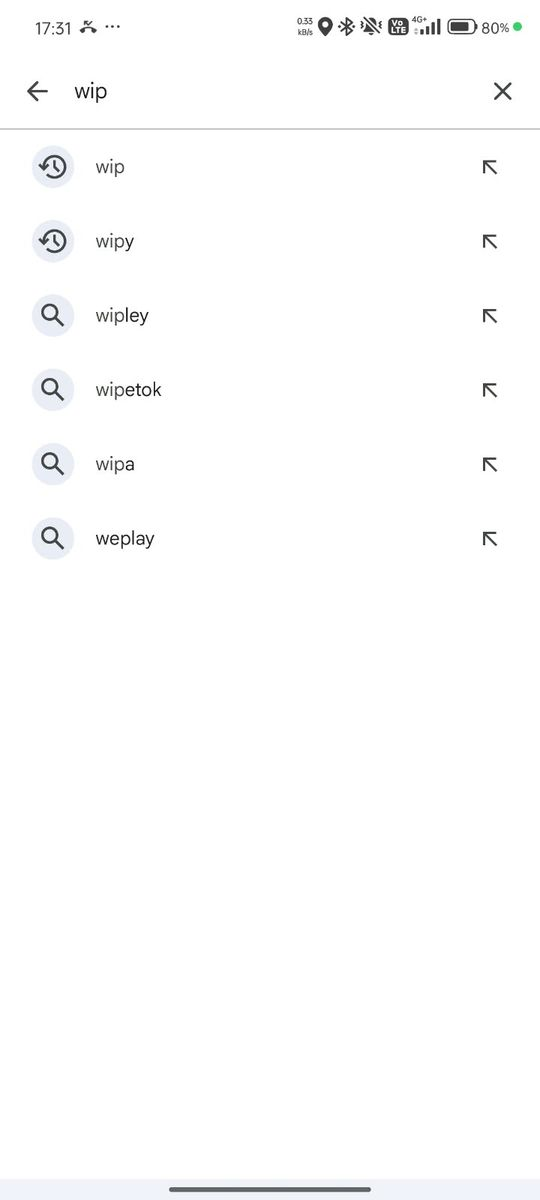
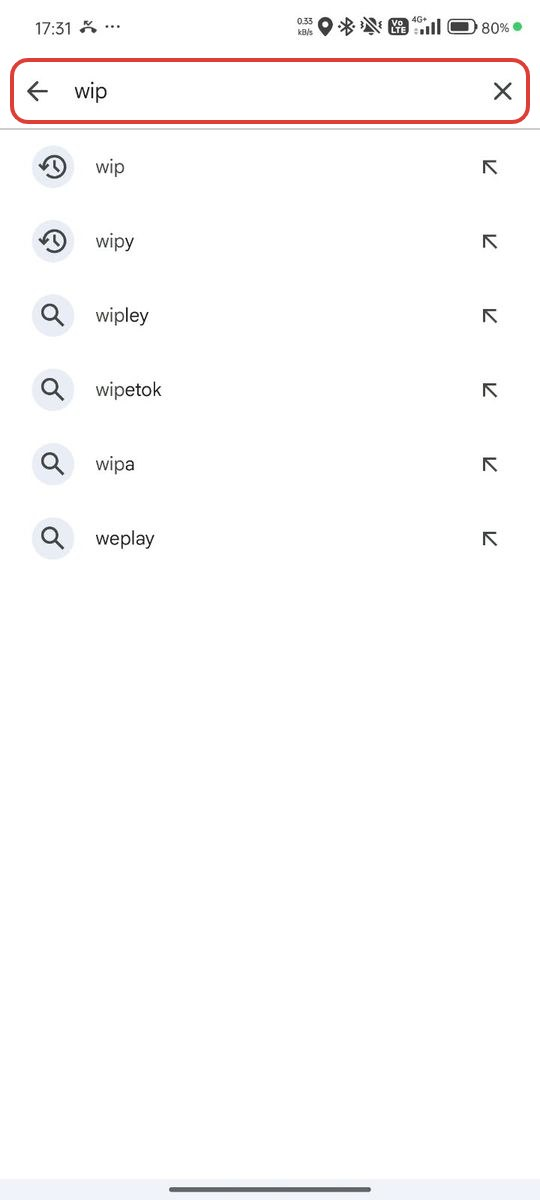
Academy: guía de operadores en 8 pasos y guía de colaboradores con datos genéricos
Operadores:
- Los pasos 1 y 2 tenían la misma pantalla: ahora son uno solo ("Entra a la
  plataforma y crea tu cuenta"), con la captura de Crear Cuenta señalado.
  Sale 1-entrar.jpg. El paso final ocupa una celda para que no quede una
  tarjeta sola en la última fila.
- Imagen descargable regenerada (?v=2).

Colaboradores:
- Capturas con datos genéricos: sin la reseña con nombre y foto (paso 2),
  TU NOMBRE (paso 7) y Tu empresa (paso 8).
- Anillos rojos en lo que hay que tocar en los pasos 1, 2, 4, 5 y 8.
- Capturas e imagen descargable con ?v=2 porque /img se cachea un año.

Changed region(s): [[0.0296, 0.0308, 1.0, 0.1233], [0.0, 0.0617, 0.0296, 0.0925]]

diff --git a/academy/guia-operador/index.html b/academy/guia-operador/index.html
@@ -244,7 +244,9 @@ h1{font-size:clamp(28px,4.6vw,48px);font-weight:800;letter-spacing:-0.03em;line-
 .screen::before{content:"";position:absolute;top:7px;left:10px;width:7px;height:7px;border-radius:50%;background:rgba(255,255,255,.35);box-shadow:11px 0 0 rgba(255,255,255,.35),22px 0 0 rgba(255,255,255,.35)}
 .screen img,.screen__ph{width:100%;height:auto;aspect-ratio:16/10;border-radius:6px;background:#fff;object-fit:cover;object-position:top left}
 .screen__ph{display:flex;flex-direction:column;align-items:center;justify-content:center;gap:6px;background:var(--surface-low);color:var(--navy-soft);font-size:13px;font-weight:600}
-/* Paso final: mismo tratamiento que en la guia del colaborador, con lista y captura */
+/* Paso final: mismo tratamiento que en la guia del colaborador, con lista y captura. Ocupa una celda
+   (no toda la fila) para que los 7 pasos + el final queden en filas de 2 sin una tarjeta sola. */
+.steps--web .step--done{grid-column:auto}
 .step--done .step__list{list-style:none;display:grid;gap:8px;max-width:600px;margin:12px auto 22px;text-align:left}
 .step--done .step__list li{position:relative;padding-left:20px;font-size:15.5px;color:rgba(255,255,255,.82)}
 .step--done .step__list li::before{content:"";position:absolute;left:2px;top:.62em;width:7px;height:7px;border-radius:50%;background:var(--lime)}
@@ -275,7 +277,7 @@ h1{font-size:clamp(28px,4.6vw,48px);font-weight:800;letter-spacing:-0.03em;line-
         <h1>Crea tu cuenta y conéctate con tu empresa</h1>
         <p>Desde el computador vas a crear tu cuenta en la plataforma web de WIP y conectarte con la empresa que te invitó, para gestionar sus servicios.</p>
         <div class="guide__actions">
-          <a class="btn-guide" href="/img/academy/guia-operador-wip.jpg?v=1" download="guia-wip-operadores.jpg" data-ev="academy_guia_descarga"><svg viewBox="0 0 24 24" width="18" height="18" aria-hidden="true"><path fill="currentColor" d="M5 20h14v-2H5Zm7-3 6-6-1.4-1.4-3.6 3.6V4h-2v9.2L7.4 9.6 6 11Z"/></svg>Descargar guía en imagen</a>
+          <a class="btn-guide" href="/img/academy/guia-operador-wip.jpg?v=2" download="guia-wip-operadores.jpg" data-ev="academy_guia_descarga"><svg viewBox="0 0 24 24" width="18" height="18" aria-hidden="true"><path fill="currentColor" d="M5 20h14v-2H5Zm7-3 6-6-1.4-1.4-3.6 3.6V4h-2v9.2L7.4 9.6 6 11Z"/></svg>Descargar guía en imagen</a>
           <button class="btn-guide btn-guide--ghost" type="button" data-share>Compartir enlace</button>
         </div>
       </div>
@@ -283,66 +285,58 @@ h1{font-size:clamp(28px,4.6vw,48px);font-weight:800;letter-spacing:-0.03em;line-
           <li class="step">
             <div class="step__head">
               <span class="step__n">1</span>
-              <h3>Entra a la plataforma</h3>
+              <h3>Entra a la plataforma y crea tu cuenta</h3>
             </div>
-            <p>Abre <a href="https://platform.wiptool.com/login" target="_blank" rel="noopener">https://platform.wiptool.com/login</a> en el navegador de tu computador.</p>
-            <div class="screen"><img src="/img/academy/plataforma/1-entrar.jpg" width="1600" height="1000" alt="Paso 1: Entra a la plataforma" loading="lazy" decoding="async"></div>
+            <p>Abre <a href="https://platform.wiptool.com/login" target="_blank" rel="noopener">https://platform.wiptool.com/login</a> en el navegador de tu computador y toca <b>Crear Cuenta</b>, en el panel de la izquierda, o <b>Regístrate</b>, debajo de <b>Iniciar sesión</b>. Si ya tienes cuenta en WIP, inicia sesión y pasa al paso 5.</p>
+            <div class="screen"><img src="/img/academy/plataforma/2-crear-cuenta.jpg" width="1600" height="1000" alt="Paso 1: Entra a la plataforma y crea tu cuenta" loading="lazy" decoding="async"></div>
           </li>
           <li class="step">
             <div class="step__head">
               <span class="step__n">2</span>
-              <h3>Crea tu cuenta</h3>
+              <h3>Escribe tus datos</h3>
             </div>
-            <p>Toca <b>Crear Cuenta</b>, en el panel de la izquierda, o <b>Regístrate</b>, debajo de <b>Iniciar sesión</b>. Si ya tienes cuenta en WIP, inicia sesión y pasa al paso 6.</p>
-            <div class="screen"><img src="/img/academy/plataforma/2-crear-cuenta.jpg" width="1600" height="1000" alt="Paso 2: Crea tu cuenta" loading="lazy" decoding="async"></div>
+            <p>Escribe tu correo, tu nombre y tus apellidos, y toca <b>Siguiente</b>.</p>
+            <div class="screen"><img src="/img/academy/plataforma/3-datos.jpg" width="1600" height="1000" alt="Paso 2: Escribe tus datos" loading="lazy" decoding="async"></div>
           </li>
           <li class="step">
             <div class="step__head">
               <span class="step__n">3</span>
-              <h3>Escribe tus datos</h3>
+              <h3>Verifica tu correo</h3>
             </div>
-            <p>Escribe tu correo, tu nombre y tus apellidos, y toca <b>Siguiente</b>.</p>
-            <div class="screen"><img src="/img/academy/plataforma/3-datos.jpg" width="1600" height="1000" alt="Paso 3: Escribe tus datos" loading="lazy" decoding="async"></div>
+            <p>Te llega un código a tu correo. Escríbelo y toca <b>Siguiente</b>. Si no te llega, revisa la carpeta de spam o toca <b>Reenviar correo electrónico de verificación</b>.</p>
+            <div class="screen"><img src="/img/academy/plataforma/4-verificar-correo.jpg" width="1600" height="1000" alt="Paso 3: Verifica tu correo" loading="lazy" decoding="async"></div>
           </li>
           <li class="step">
             <div class="step__head">
               <span class="step__n">4</span>
-              <h3>Verifica tu correo</h3>
+              <h3>Crea tu contraseña</h3>
             </div>
-            <p>Te llega un código a tu correo. Escríbelo y toca <b>Siguiente</b>. Si no te llega, revisa la carpeta de spam o toca <b>Reenviar correo electrónico de verificación</b>.</p>
-            <div class="screen"><img src="/img/academy/plataforma/4-verificar-correo.jpg" width="1600" height="1000" alt="Paso 4: Verifica tu correo" loading="lazy" decoding="async"></div>
+            <p>Escribe tu contraseña, confírmala y toca <b>Finalizar</b>. La plataforma te lleva de nuevo al inicio de sesión.</p>
+            <div class="screen"><img src="/img/academy/plataforma/5-contrasena.jpg" width="1600" height="1000" alt="Paso 4: Crea tu contraseña" loading="lazy" decoding="async"></div>
           </li>
           <li class="step">
             <div class="step__head">
               <span class="step__n">5</span>
-              <h3>Crea tu contraseña</h3>
+              <h3>Inicia sesión</h3>
             </div>
-            <p>Escribe tu contraseña, confírmala y toca <b>Finalizar</b>. La plataforma te lleva de nuevo al inicio de sesión.</p>
-            <div class="screen"><img src="/img/academy/plataforma/5-contrasena.jpg" width="1600" height="1000" alt="Paso 5: Crea tu contraseña" loading="lazy" decoding="async"></div>
+            <p>Entra con tu correo y tu contraseña. Como todavía no estás en ninguna empresa, la plataforma te abre <b>Mi red</b>.</p>
+            <div class="screen"><img src="/img/academy/plataforma/6-mi-red.jpg" width="1600" height="1000" alt="Paso 5: Inicia sesión" loading="lazy" decoding="async"></div>
           </li>
           <li class="step">
             <div class="step__head">
               <span class="step__n">6</span>
-              <h3>Inicia sesión</h3>
+              <h3>Busca tu empresa</h3>
             </div>
-            <p>Entra con tu correo y tu contraseña. Como todavía no estás en ninguna empresa, la plataforma te abre <b>Mi red</b>.</p>
-            <div class="screen"><img src="/img/academy/plataforma/6-mi-red.jpg" width="1600" height="1000" alt="Paso 6: Inicia sesión" loading="lazy" decoding="async"></div>
+            <p>En la barra <b>Buscar una empresa</b>, escribe el nombre de la empresa que te invitó. Es el nombre que aparece en el mensaje de invitación.</p>
+            <div class="screen"><img src="/img/academy/plataforma/7-buscar-empresa.jpg" width="1600" height="1000" alt="Paso 6: Busca tu empresa" loading="lazy" decoding="async"></div>
           </li>
           <li class="step">
             <div class="step__head">
               <span class="step__n">7</span>
-              <h3>Busca tu empresa</h3>
-            </div>
-            <p>En la barra <b>Buscar una empresa</b>, escribe el nombre de la empresa que te invitó. Es el nombre que aparece en el mensaje de invitación.</p>
-            <div class="screen"><img src="/img/academy/plataforma/7-buscar-empresa.jpg" width="1600" height="1000" alt="Paso 7: Busca tu empresa" loading="lazy" decoding="async"></div>
-          </li>
-          <li class="step">
-            <div class="step__head">
-              <span class="step__n">8</span>
               <h3>Envía la solicitud</h3>
             </div>
             <p>Toca <b>Conectar</b> en la tarjeta de la empresa y confirma con <b>Enviar solicitud</b>. Puedes ver tu solicitud en <b>Solicitudes → Enviadas</b>.</p>
-            <div class="screen"><img src="/img/academy/plataforma/8-enviar-solicitud.jpg" width="1600" height="1000" alt="Paso 8: Envía la solicitud" loading="lazy" decoding="async"></div>
+            <div class="screen"><img src="/img/academy/plataforma/8-enviar-solicitud.jpg" width="1600" height="1000" alt="Paso 7: Envía la solicitud" loading="lazy" decoding="async"></div>
           </li>
           <li class="step step--done">
             <div class="step__head">
@@ -350,11 +344,11 @@ h1{font-size:clamp(28px,4.6vw,48px);font-weight:800;letter-spacing:-0.03em;line-
               <h3>Espera la aceptación y empieza a trabajar</h3>
             </div>
             <ul class="step__list"><li>Cuando la empresa acepte tu solicitud, elígela en el selector <b>Empresa</b> de la barra superior y empieza a gestionar sus servicios.</li><li>No uses <b>Crear empresa</b>: eso crea una empresa nueva, distinta de la que te invitó.</li><li>Si no ves las opciones de operador, pídele a tu empresa que revise tu rol en <b>Configuración → Usuarios</b>.</li></ul>
-            <div class="screen"><img src="/img/academy/plataforma/9-elegir-empresa.jpg" width="1600" height="1000" alt="Paso 9: Espera la aceptación y empieza a trabajar" loading="lazy" decoding="async"></div>
+            <div class="screen"><img src="/img/academy/plataforma/9-elegir-empresa.jpg" width="1600" height="1000" alt="Paso 8: Espera la aceptación y empieza a trabajar" loading="lazy" decoding="async"></div>
           </li>
       </ol>
       <div class="guide__foot">
-        <a class="btn-guide" href="/img/academy/guia-operador-wip.jpg?v=1" download="guia-wip-operadores.jpg" data-ev="academy_guia_descarga"><svg viewBox="0 0 24 24" width="18" height="18" aria-hidden="true"><path fill="currentColor" d="M5 20h14v-2H5Zm7-3 6-6-1.4-1.4-3.6 3.6V4h-2v9.2L7.4 9.6 6 11Z"/></svg>Descargar guía en imagen</a>
+        <a class="btn-guide" href="/img/academy/guia-operador-wip.jpg?v=2" download="guia-wip-operadores.jpg" data-ev="academy_guia_descarga"><svg viewBox="0 0 24 24" width="18" height="18" aria-hidden="true"><path fill="currentColor" d="M5 20h14v-2H5Zm7-3 6-6-1.4-1.4-3.6 3.6V4h-2v9.2L7.4 9.6 6 11Z"/></svg>Descargar guía en imagen</a>
         <a class="guide__back" href="/academy#usuarios">Ver los cursos en video para operadores →</a>
       </div>
     </div>

diff --git a/academy/guia-colaborador/index.html b/academy/guia-colaborador/index.html
@@ -254,7 +254,7 @@ h1{font-size:clamp(28px,4.6vw,48px);font-weight:800;letter-spacing:-0.03em;line-
         <h1>Descarga la app y conéctate con tu empresa</h1>
         <p>Sigue estos 9 pasos desde tu celular para empezar a recibir y gestionar servicios en WIP.</p>
         <div class="guide__actions">
-          <a class="btn-guide" href="/img/academy/guia-colaborador-wip.jpg" download="guia-wip-colaboradores.jpg" data-ev="academy_guia_descarga"><svg viewBox="0 0 24 24" width="18" height="18" aria-hidden="true"><path fill="currentColor" d="M5 20h14v-2H5Zm7-3 6-6-1.4-1.4-3.6 3.6V4h-2v9.2L7.4 9.6 6 11Z"/></svg>Descargar guía en imagen</a>
+          <a class="btn-guide" href="/img/academy/guia-colaborador-wip.jpg?v=2" download="guia-wip-colaboradores.jpg" data-ev="academy_guia_descarga"><svg viewBox="0 0 24 24" width="18" height="18" aria-hidden="true"><path fill="currentColor" d="M5 20h14v-2H5Zm7-3 6-6-1.4-1.4-3.6 3.6V4h-2v9.2L7.4 9.6 6 11Z"/></svg>Descargar guía en imagen</a>
           <button class="btn-guide btn-guide--ghost" type="button" data-share>Compartir enlace</button>
         </div>
       </div>
@@ -265,7 +265,7 @@ h1{font-size:clamp(28px,4.6vw,48px);font-weight:800;letter-spacing:-0.03em;line-
               <h3>Busca “Wip” en la Play Store</h3>
             </div>
             <p>Abre la Play Store en tu celular y escribe “wip” en el buscador.</p>
-            <div class="phone"><img src="/img/academy/app/1-buscar-wip.jpg" width="540" height="1200" alt="Paso 1: Busca “Wip” en la Play Store" loading="lazy" decoding="async"></div>
+            <div class="phone"><img src="/img/academy/app/1-buscar-wip.jpg?v=2" width="540" height="1200" alt="Paso 1: Busca “Wip” en la Play Store" loading="lazy" decoding="async"></div>
           </li>
           <li class="step">
             <div class="step__head">
@@ -273,7 +273,7 @@ h1{font-size:clamp(28px,4.6vw,48px);font-weight:800;letter-spacing:-0.03em;line-
               <h3>Instala “Wip colaboradores”</h3>
             </div>
             <p>En los resultados aparece Wip colaboradores. Tócala y presiona Instalar.</p>
-            <div class="phone"><img src="/img/academy/app/2-wip-colaboradores.jpg" width="540" height="1200" alt="Paso 2: Instala “Wip colaboradores”" loading="lazy" decoding="async"></div>
+            <div class="phone"><img src="/img/academy/app/2-wip-colaboradores.jpg?v=2" width="540" height="1200" alt="Paso 2: Instala “Wip colaboradores”" loading="lazy" decoding="async"></div>
           </li>
           <li class="step">
             <div class="step__head">
@@ -281,7 +281,7 @@ h1{font-size:clamp(28px,4.6vw,48px);font-weight:800;letter-spacing:-0.03em;line-
               <h3>Abre la app y toca “Regístrate”</h3>
             </div>
             <p>Cuando termine la descarga, abre la app y, debajo de Iniciar sesión, toca Regístrate.</p>
-            <div class="phone"><img src="/img/academy/app/3-registrate.jpg" width="540" height="1200" alt="Paso 3: Abre la app y toca “Regístrate”" loading="lazy" decoding="async"></div>
+            <div class="phone"><img src="/img/academy/app/3-registrate.jpg?v=2" width="540" height="1200" alt="Paso 3: Abre la app y toca “Regístrate”" loading="lazy" decoding="async"></div>
           </li>
           <li class="step">
             <div class="step__head">
@@ -289,7 +289,7 @@ h1{font-size:clamp(28px,4.6vw,48px);font-weight:800;letter-spacing:-0.03em;line-
               <h3>Completa tus datos</h3>
             </div>
             <p>Escribe tu correo, tu nombre y tu apellido, y sigue los pasos hasta terminar el registro.</p>
-            <div class="phone"><img src="/img/academy/app/4-registro.jpg" width="540" height="1200" alt="Paso 4: Completa tus datos" loading="lazy" decoding="async"></div>
+            <div class="phone"><img src="/img/academy/app/4-registro.jpg?v=2" width="540" height="1200" alt="Paso 4: Completa tus datos" loading="lazy" decoding="async"></div>
           </li>
           <li class="step">
             <div class="step__head">
@@ -297,7 +297,7 @@ h1{font-size:clamp(28px,4.6vw,48px);font-weight:800;letter-spacing:-0.03em;line-
               <h3>Permite notificaciones y ubicación</h3>
             </div>
             <p>Al ingresar a la app, acepta los permisos de notificaciones y de ubicación. La app te muestra cómo dejar la ubicación activa todo el tiempo y precisa: sigue esos pasos.</p>
-            <div class="phone"><img src="/img/academy/app/5-permisos.jpg" width="540" height="1200" alt="Paso 5: Permite notificaciones y ubicación" loading="lazy" decoding="async"></div>
+            <div class="phone"><img src="/img/academy/app/5-permisos.jpg?v=2" width="540" height="1200" alt="Paso 5: Permite notificaciones y ubicación" loading="lazy" decoding="async"></div>
           </li>
           <li class="step">
             <div class="step__head">
@@ -305,7 +305,7 @@ h1{font-size:clamp(28px,4.6vw,48px);font-weight:800;letter-spacing:-0.03em;line-
               <h3>En ubicación elige “Permitir todo el tiempo”</h3>
             </div>
             <p>En Ajustes › Apps › Wip › Permisos › Ubicación, marca Permitir todo el tiempo y deja activa Ubicación precisa, para que tu ubicación se actualice aunque la app esté en segundo plano.</p>
-            <div class="phone"><img src="/img/academy/app/6-permitir-todo-el-tiempo.jpg" width="540" height="1200" alt="Paso 6: En ubicación elige “Permitir todo el tiempo”" loading="lazy" decoding="async"></div>
+            <div class="phone"><img src="/img/academy/app/6-permitir-todo-el-tiempo.jpg?v=2" width="540" height="1200" alt="Paso 6: En ubicación elige “Permitir todo el tiempo”" loading="lazy" decoding="async"></div>
           </li>
           <li class="step">
             <div class="step__head">
@@ -313,7 +313,7 @@ h1{font-size:clamp(28px,4.6vw,48px);font-weight:800;letter-spacing:-0.03em;line-
               <h3>Entra a “Mi red”</h3>
             </div>
             <p>En la pantalla de inicio toca el círculo Mi red.</p>
-            <div class="phone"><img src="/img/academy/app/7-mi-red.jpg" width="540" height="1200" alt="Paso 7: Entra a “Mi red”" loading="lazy" decoding="async"></div>
+            <div class="phone"><img src="/img/academy/app/7-mi-red.jpg?v=2" width="540" height="1200" alt="Paso 7: Entra a “Mi red”" loading="lazy" decoding="async"></div>
           </li>
           <li class="step">
             <div class="step__head">
@@ -321,7 +321,7 @@ h1{font-size:clamp(28px,4.6vw,48px);font-weight:800;letter-spacing:-0.03em;line-
               <h3>Busca tu empresa y toca “Conectar”</h3>
             </div>
             <p>Escribe el nombre de la empresa para la que trabajas y toca Conectar para enviarle tu solicitud.</p>
-            <div class="phone"><img src="/img/academy/app/8-conectar-empresa.jpg" width="540" height="1200" alt="Paso 8: Busca tu empresa y toca “Conectar”" loading="lazy" decoding="async"></div>
+            <div class="phone"><img src="/img/academy/app/8-conectar-empresa.jpg?v=2" width="540" height="1200" alt="Paso 8: Busca tu empresa y toca “Conectar”" loading="lazy" decoding="async"></div>
           </li>
           <li class="step step--done">
             <div class="step__head">
@@ -332,7 +332,7 @@ h1{font-size:clamp(28px,4.6vw,48px);font-weight:800;letter-spacing:-0.03em;line-
           </li>
       </ol>
       <div class="guide__foot">
-        <a class="btn-guide" href="/img/academy/guia-colaborador-wip.jpg" download="guia-wip-colaboradores.jpg" data-ev="academy_guia_descarga"><svg viewBox="0 0 24 24" width="18" height="18" aria-hidden="true"><path fill="currentColor" d="M5 20h14v-2H5Zm7-3 6-6-1.4-1.4-3.6 3.6V4h-2v9.2L7.4 9.6 6 11Z"/></svg>Descargar guía en imagen</a>
+        <a class="btn-guide" href="/img/academy/guia-colaborador-wip.jpg?v=2" download="guia-wip-colaboradores.jpg" data-ev="academy_guia_descarga"><svg viewBox="0 0 24 24" width="18" height="18" aria-hidden="true"><path fill="currentColor" d="M5 20h14v-2H5Zm7-3 6-6-1.4-1.4-3.6 3.6V4h-2v9.2L7.4 9.6 6 11Z"/></svg>Descargar guía en imagen</a>
         <a class="guide__back" href="/academy#colaborador">Ver los cursos en video para colaboradores →</a>
       </div>
     </div>

diff --git a/scripts/academy/styles-plataforma.css b/scripts/academy/styles-plataforma.css
@@ -9,7 +9,9 @@
 .screen::before{content:"";position:absolute;top:7px;left:10px;width:7px;height:7px;border-radius:50%;background:rgba(255,255,255,.35);box-shadow:11px 0 0 rgba(255,255,255,.35),22px 0 0 rgba(255,255,255,.35)}
 .screen img,.screen__ph{width:100%;height:auto;aspect-ratio:16/10;border-radius:6px;background:#fff;object-fit:cover;object-position:top left}
 .screen__ph{display:flex;flex-direction:column;align-items:center;justify-content:center;gap:6px;background:var(--surface-low);color:var(--navy-soft);font-size:13px;font-weight:600}
-/* Paso final: mismo tratamiento que en la guia del colaborador, con lista y captura */
+/* Paso final: mismo tratamiento que en la guia del colaborador, con lista y captura. Ocupa una celda
+   (no toda la fila) para que los 7 pasos + el final queden en filas de 2 sin una tarjeta sola. */
+.steps--web .step--done{grid-column:auto}
 .step--done .step__list{list-style:none;display:grid;gap:8px;max-width:600px;margin:12px auto 22px;text-align:left}
 .step--done .step__list li{position:relative;padding-left:20px;font-size:15.5px;color:rgba(255,255,255,.82)}
 .step--done .step__list li::before{content:"";position:absolute;left:2px;top:.62em;width:7px;height:7px;border-radius:50%;background:var(--lime)}
